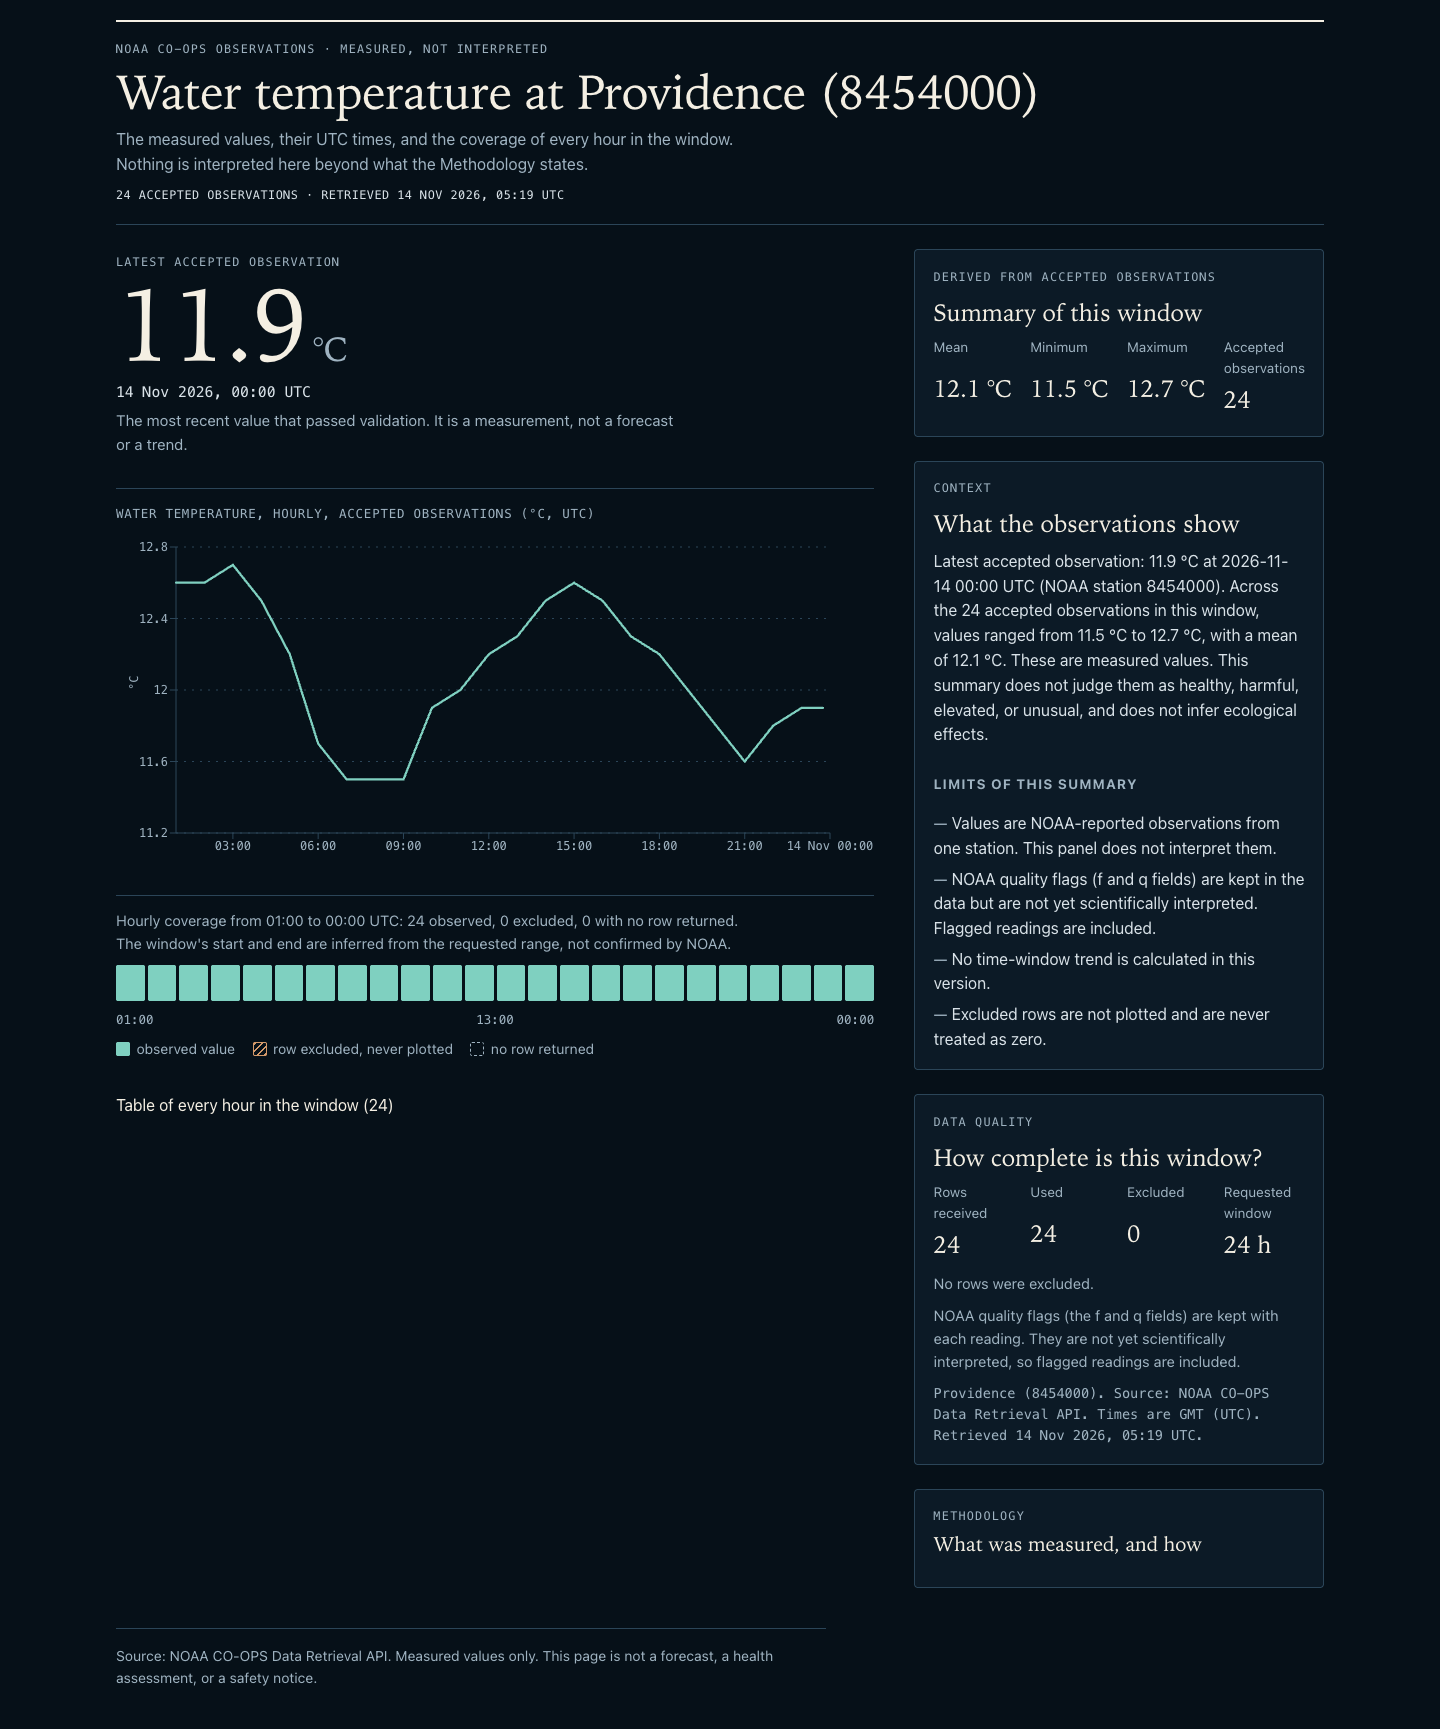
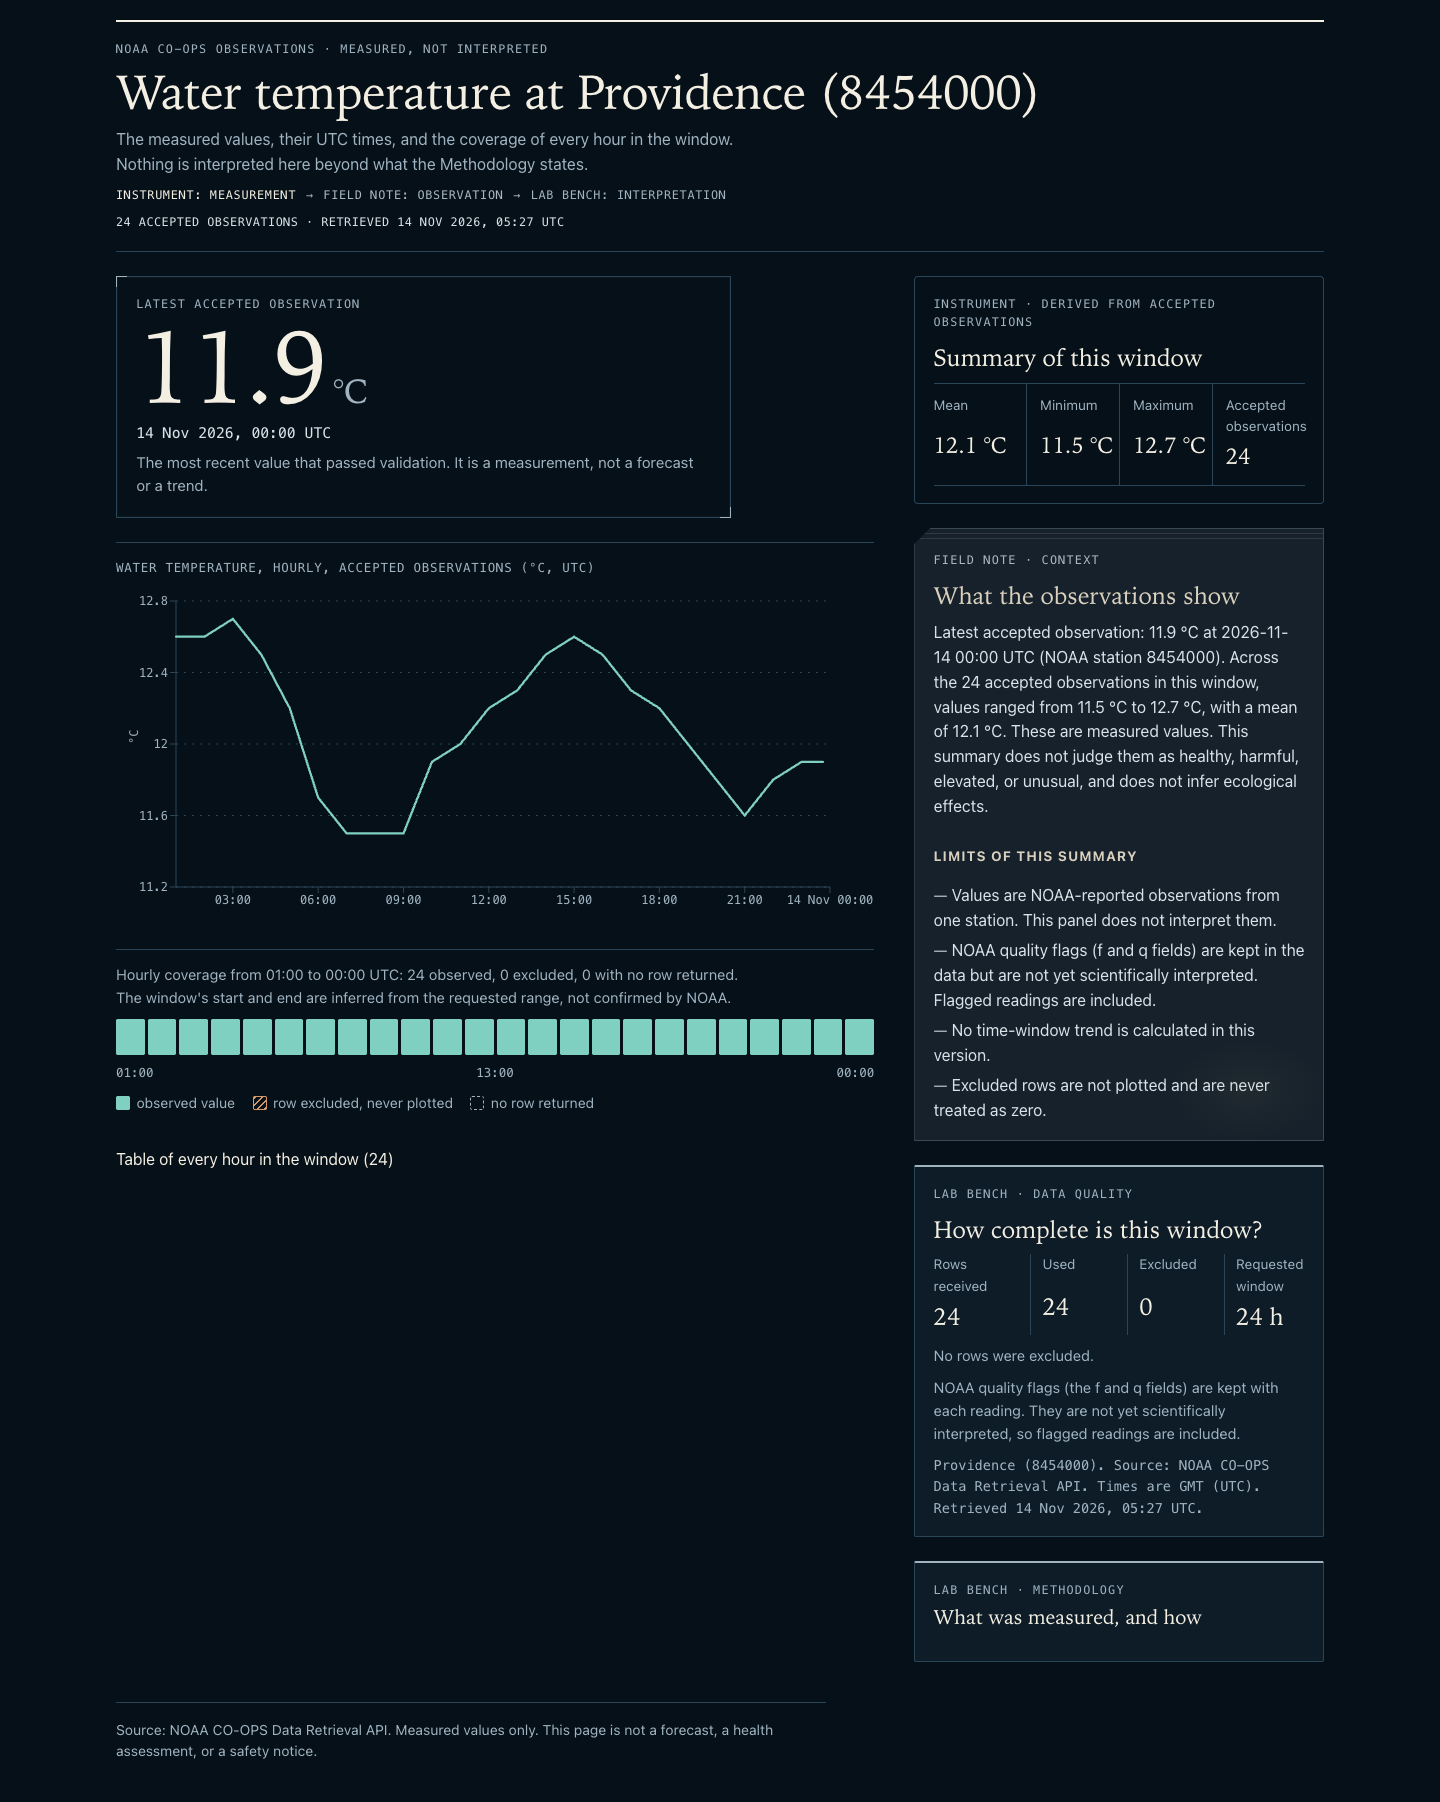
docs: describe the three environments and refresh the showcase media
- README: a section on the instrument, field-note, and lab-bench environments and the
  texture rules that keep readability first. Client test count updated to 91.
- docs/DECISIONS.md: the decision, the rejected alternatives (paper texture behind
  text, hazard styling, script type, animated water effects), and the verification.
- docs/media: observation, mobile, excluded and missing hours, timeout, and no-data
  images re-rendered from the final code. Adds a selected-hour field-note image and
  re-renders the four-frame keyboard GIF. Fixture-backed images are labelled as
  demonstrations. The live capture is from the NOAA API at capture time.

diff --git a/docs/DECISIONS.md b/docs/DECISIONS.md
@@ -2,6 +2,27 @@
 
 Short, dated records of decisions that shape what the interface shows and how it can be verified. Newest first.
 
+## 2026-11-14: Three knowledge environments (instrument, field note, lab bench)
+
+**Status:** implemented on `feature/noaa-immersive-environments`. Not yet merged.
+
+**Intent.** The journey from measurement to observation to interpretation should be visible in the interface, and it should not be decorative. A marine scientist should find it credible, a student should be able to follow it, and a visitor should be drawn in.
+
+**Decisions.**
+- Three environments, each with one surface treatment. *Instrument* is near-black ink with hairline plates for measured values. *Field note* is a warmer slate slip with a clipped corner, a ruled header band, and a faint wipe. *Lab bench* is a cooler surface with hairline grids and numbered steps.
+- The environment is named on the page: the masthead carries the journey line, and each panel's kicker names its environment.
+- A selected hour becomes a field-note slip, and the latest value stays on the instrument plate. The reader moves from the instrument reading to a specific observation.
+- Texture is confined to places where it cannot compete with information. Ruled lines appear only in a 14 px band above the text. The wipe is a corner smudge kept inside its panel. The chart has no texture.
+- Motion is one short settle when a note appears, plus a fix found during testing: the chart line animates only on its first render, so selecting an hour no longer makes the series vanish briefly.
+
+**Rejected alternatives.**
+- Paper texture behind body text. It lowers contrast for the readers who most need the text.
+- Hazard or "field alert" styling for excluded rows or errors. It would imply ecological danger that the data does not show.
+- Hand-lettered or script type. It reduces legibility and does not carry scientific meaning.
+- Animated ripples or water effects. They are decoration, and they add motion without information.
+
+**Verification.** 91 client tests (contrast of new text colours, texture placement, no alarm colours, each environment applied, animation regression), lint, and production build. Browser: 20 keyboard and responsive checks, and axe-core with zero violations across 21 captures. A defect found during browser testing was fixed: a wide clip-path wipe widened the page at 768 px.
+
 ## 2026-11-14: "Observatory Ledger" visual direction
 
 **Status:** implemented on `feature/noaa-instrument-design`. Not yet merged.

diff --git a/README.md b/README.md
@@ -39,6 +39,16 @@ The chart connects measured hours with straight segments. It does not draw a smo
 
 Error and empty states are described in their own panels. "NOAA reported no data" is deliberately not reported as "no observations," because NOAA's response does not say which of the two it means.
 
+## Three knowledge environments
+
+The interface is arranged as a path from measurement to interpretation, in three environments:
+
+- **Instrument (measurement).** The latest accepted value, on a registered plate, and the derived summary. Precise and stable.
+- **Field note (observation).** A selected hour, shown as a note slip, and the contextual notes. Clipped corners, a ruled header band, and a faint brackish wipe in one corner give the sense of a waterproof pad used in the field.
+- **Lab bench (interpretation).** Data quality and methodology: hairline grids, numbered steps, and no texture.
+
+The texture is kept away from anything a reader must read or see: ruled lines appear only in a 14 px header band, the wipe is a corner smudge inside its panel, and the chart has no texture at all. Colour keeps the meaning it has elsewhere: sea for accepted observations, clay for excluded rows and recorded faults. No alarm colours or hazard styling are used. Motion is a single short settle when a note appears, and it is disabled under `prefers-reduced-motion`.
+
 ## Accessibility
 
 - The hourly strip is a set of buttons with one tab stop. Arrow keys move between hours, Home and End jump to the ends, and Enter selects an hour.
@@ -55,7 +65,7 @@ These checks were run in a browser; see *Verification status* below for exactly 
 | Check | Status |
 |---|---|
 | Server tests (`node --test`) | 137 pass, 0 fail |
-| Client tests (`node --test`) | 71 pass, 0 fail |
+| Client tests (`node --test`) | 91 pass, 0 fail |
 | Client lint and production build | Pass |
 | Browser keyboard, focus, reduced-motion, and target-size checks (Chrome 157, scripted) | 20 of 20 pass |
 | axe-core (WCAG 2.x A and AA) on 21 captures (7 states × 3 widths) | 0 violations |
